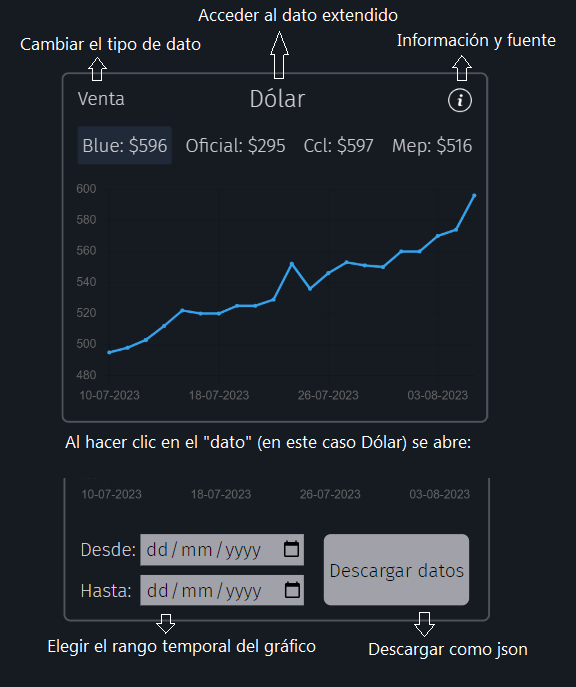
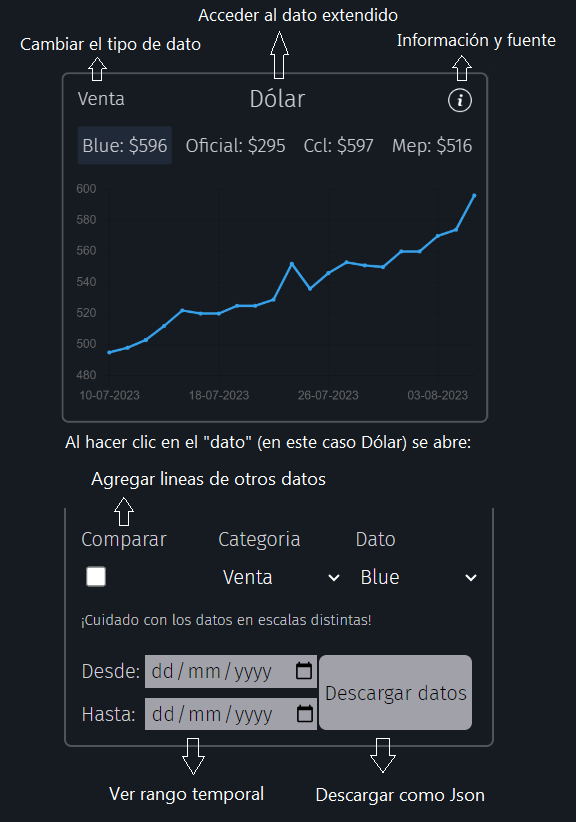
agregado otras fuentes y temas de estilo

diff --git a/src/pages/OtrasFuentes.jsx b/src/pages/OtrasFuentes.jsx
@@ -1,0 +1,26 @@
+import React from 'react'
+
+export default function OtrasFuentes() {
+  return (
+    <div className="flex justify-center break-words p-3 relative">
+      <div className="sm:text-lg">
+        <h2 className='text-2xl mb-2 flex justify-center'>Otras Fuentes</h2>
+
+        <p className='mb-4 flex justify-center sm:text-lg'>Hace click en la fuente para ir a la página</p>
+
+        <ul className='flex flex-col gap-2 border p-3 rounded-md border-gray-500'>
+            <li><a className='hover:text-stroke' href='https://www.indec.gob.ar/' target='_blank' rel='noopener'>Indec</a></li>
+            <li><a className='hover:text-stroke'  href='https://datos.gob.ar/' target='_blank' rel='noopener'>Datos.gob.ar</a></li>
+            <li><a className='hover:text-stroke' href='https://argentina.gob.ar/' target='_blank' rel='noopener'>Argentina.gob.ar</a></li>
+            <li><a className='hover:text-stroke' href='https://cancilleria.gob.ar/es/cei/estadisticas' target='_blank' rel='noopener'>Cancilleria</a></li>
+            <li><a className='hover:text-stroke' href='https://www.bcra.gob.ar/PublicacionesEstadisticas/series_estadisticas_txt.asp' target='_blank' rel='noopener'>Bcra estadísticas oficial</a></li>
+            <li><a className='hover:text-stroke' href='https://estadisticasbcra.com/' target='_blank' rel='noopener'>Bcra estadísticas no oficial</a></li>
+            <li><a className='hover:text-stroke' href='https://www.argentina.gob.ar/enre' target='_blank' rel='noopener'>Ente Nacional Regulador de Electricidad</a></li>
+            <li><a className='hover:text-stroke' href='https://data.worldbank.org/country/argentina' target='_blank' rel='noopener'>World Bank</a></li>
+            <li><a className='hover:text-stroke' href='https://www.imf.org/en/Data' target='_blank' rel='noopener'>Fondo Monetario Internacional</a></li>
+            <li><a className='hover:text-stroke' href='https://www.dolarito.ar/' target='_blank' rel='noopener'>Dolarito</a></li>
+        </ul>
+      </div>
+    </div>
+  )
+}

diff --git a/src/layout/header/components/MobileSidebar.jsx b/src/layout/header/components/MobileSidebar.jsx
@@ -16,18 +16,22 @@ export default function MobileSidebar({toggled, setHeaderToggle, datosDisponible
   }
 
   return (
-    <div className=''>
+    <div>
       <Sidebar
         sidebar={
-        <div className={`p-3 min-h-full bg-[#161b22] text-white w-full ${setVisible(toggled)}`}>
+        <div className={`p-3 min-h-full bg-[#161b22] sm:text-2xl text-white sm:w-56 ${setVisible(toggled)}`}>
           <button className='mb-3 text-2xl sm:text-2xl sm:mb-6' onClick={() => setHeaderToggle(false)}>Cerrar</button>
 
           {Object.keys(datosDisponibles).map(key => (
             <SidebarItem nombre={key} datosDisponibles={datosDisponibles[key]} setHeaderToggle={setHeaderToggle}/>        
           ))}
 
-          <div className='text-xl mt-4 sm:text-2xl sm:mt-6' onClick={() => {setHeaderToggle(false)}}>
+          <div className='text-xl mt-4 sm:mt-6' onClick={() => {setHeaderToggle(false)}}>
             <Link to='/donar'>Contribuir / Donar</Link>
+          </div>
+
+          <div className='text-xl mt-2 sm:mt-2' onClick={() => {setHeaderToggle(false)}}>
+            <Link to='/otrasfuentes'>Otras Fuentes</Link>
           </div>
         </div>
         }

diff --git a/src/pages/busqueda/components/fuentesOffline/misc.jsx b/src/pages/busqueda/components/fuentesOffline/misc.jsx
@@ -23,4 +23,22 @@ export const datosMisc = [
         descripcion: 'Resultados y analisis de las pruebas Aprender en el país.',
         path: 'https://www.argentina.gob.ar/educacion/evaluacion-informacion-educativa/aprender'
     },
+    {
+        nombre: 'Cotizaciones del dólar',
+        fuente: 'Dolarito',
+        descripcion: 'Cotizaciones de muchisimos tipos distintos de dólar',
+        path: 'https://www.dolarito.ar'
+    },
+    {
+        nombre: 'Estadisticas BCRA no oficial',
+        fuente: 'Estadisticas BCRA no oficial',
+        descripcion: 'Muchas estadísticas distintas que ofrece el Bcra',
+        path: 'https://estadisticasbcra.com/'
+    },
+    {
+        nombre: 'Estadisticas BCRA oficial',
+        fuente: 'Estadisticas BCRA oficial',
+        descripcion: 'Muchas estadísticas distintas que ofrece el Bcra',
+        path: 'https://www.bcra.gob.ar/PublicacionesEstadisticas/series_estadisticas_txt.asp'
+    },
 ]

diff --git a/src/datos/gui/components/grafico/ShowcaseGraph.jsx b/src/datos/gui/components/grafico/ShowcaseGraph.jsx
@@ -44,6 +44,8 @@ function intersectionIndices3(dates1, dates2, dates3) {
   return [indices1, indices2, indices3];
 }
 
+// El codigo de esto esta asqueroso e inescalable. Se modularizara en algun momento historico.
+
 export default function ShowcaseGraph({modo, rangoHistorico, datos, nombre, rangoInicial, comparar, tipo, bar, estado}) {
   function setIndices(fechas, fechaDesde=rangoHistorico[0], fechaHasta=rangoHistorico[1]) {
     let indiceDesde = 0
@@ -173,8 +175,8 @@ export default function ShowcaseGraph({modo, rangoHistorico, datos, nombre, rang
       borderWidth: 2,
       pointRadius: 0.7,
       pointHitRadius: 12,
-      borderColor: 'rgba(0, 175, 64, 1)',
-      backgroundColor: 'rgba(0, 175, 64, 0.5)',
+      borderColor: 'rgba(139, 101, 223, 1)',
+      backgroundColor: 'rgba(139, 101, 223, 0.5)',
     })
   }
 

diff --git a/src/datos/gui/DatoAnaliticoGui.jsx b/src/datos/gui/DatoAnaliticoGui.jsx
@@ -49,7 +49,9 @@ export default function DatoAnaliticoGui({nombre, modo, datos, rangoInicial, uni
       <Informacion texto={textoInfo} createdAt={ultimaActualizacion}/>
 
       <Link to={path ? `/${path}` : `/${nombre.toLowerCase()}`}>
-        <h2 className="text-xl flex justify-center mt-1 mb-2 z-[1] sm:text-3xl sm:mb-3">{nombre}</h2>    
+        <h2 className={`text-xl ${modo === 'carta' ? 'hover:text-stroke': ''} flex justify-center mt-1 mb-2 z-[1] sm:text-3xl sm:mb-3`}>
+          {nombre}
+        </h2>    
       </Link>
 
       <ShowcaseData setTipo={setTipo} datos={datos} unidades={unidades}

diff --git a/src/App.jsx b/src/App.jsx
@@ -8,6 +8,7 @@ import Donar from './pages/Donar'
 import DatoAnalitico from './datos/DatoAnalitico'
 import DatoGeografico from './datos/DatoGeografico'
 import Busqueda from './pages/busqueda/Busqueda'
+import OtrasFuentes from './pages/OtrasFuentes'
 
 /*
 night n night NJK Record/3L
@@ -75,6 +76,8 @@ function App() {
           ))}
 
           <Route path='/donar' element={<Donar/>}></Route>
+
+          <Route path='/otrasfuentes' element={<OtrasFuentes/>}></Route>
 
           <Route path='/busqueda/:busquedaInicial' element={<Busqueda/>}></Route>
         </Routes>
